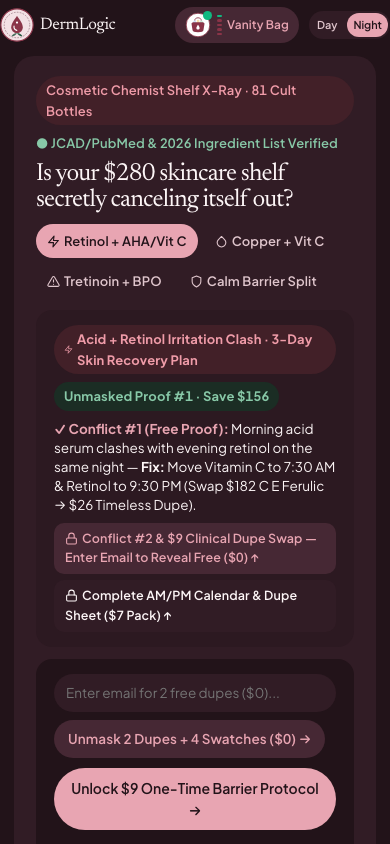
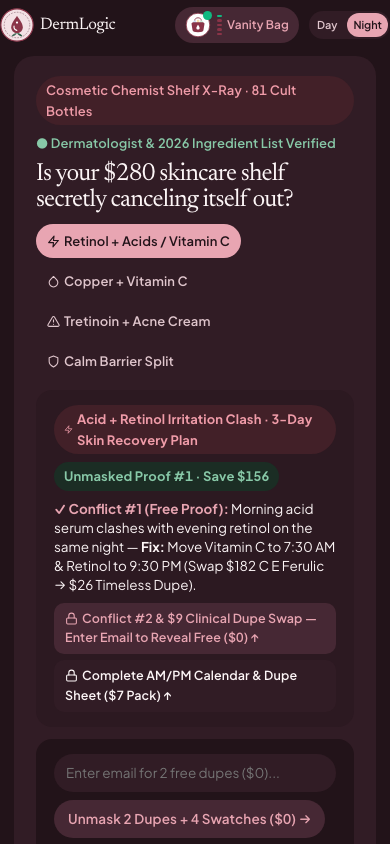
Phase 2.3: replace JCAD/PubMed, AHA/Vit C, and BPO with plain-English Dermatologist, Acids / Vitamin C, and Acne Cream

diff --git a/src/page-views.js b/src/page-views.js
@@ -226,13 +226,13 @@ function renderHomePage({ products, ingredients, presets, initialAnalysis, initi
           <div id="dl-screen1-group1" style="display:flex;flex-direction:column;gap:8px;">
             <div style="display:flex;align-items:center;justify-content:space-between;gap:8px;flex-wrap:wrap;">
               <span class="badge-clash mono" style="font-size:13px;padding:4px 10px;">Cosmetic Chemist Shelf X-Ray &middot; ${products.length} Cult Bottles</span>
-              <span class="mono" style="font-size:13px;color:var(--sage-safe);font-weight:600;">&#9679; JCAD/PubMed &amp; 2026 Ingredient List Verified</span>
+              <span class="mono" style="font-size:13px;color:var(--sage-safe);font-weight:600;">&#9679; Dermatologist &amp; 2026 Ingredient List Verified</span>
             </div>
             <h1 class="hero-h1" style="font-size:clamp(1.38rem,2.3vw,1.95rem);line-height:1.18;margin:0;max-width:none;">Is your $280 skincare shelf secretly canceling itself out?</h1>
             <div id="dl-spark-tester-bar" role="group" aria-label="1-Tap AM/PM Conflict Spark Tester" style="display:flex;flex-wrap:wrap;gap:6px;align-items:center;">
-              <button type="button" class="vanity-light-btn active mono" data-spark="retinol-aha" style="font-size:13px;padding:6px 11px;min-height:34px;border-radius:999px;cursor:pointer;" onclick="window.__dlSelectSparkConflict('retinol-aha','viral-tiktok-destroyer',this)"><svg width="13" height="13" viewBox="0 0 24 24" fill="none" stroke="currentColor" stroke-width="2" stroke-linecap="round" stroke-linejoin="round" style="display:inline-block;vertical-align:-2px;margin-right:4px;"><polygon points="13 2 3 14 12 14 11 22 21 10 12 10 13 2"/></svg>Retinol + AHA/Vit C</button>
-              <button type="button" class="vanity-light-btn mono" data-spark="copper-vitc" style="font-size:13px;padding:6px 11px;min-height:34px;border-radius:999px;cursor:pointer;" onclick="window.__dlSelectSparkConflict('copper-vitc','copper-vitc-oxidation',this)"><svg width="13" height="13" viewBox="0 0 24 24" fill="none" stroke="currentColor" stroke-width="2" stroke-linecap="round" stroke-linejoin="round" style="display:inline-block;vertical-align:-2px;margin-right:4px;"><path d="M12 2.69l5.66 5.66a8 8 0 1 1-11.31 0z"/></svg>Copper + Vit C</button>
-              <button type="button" class="vanity-light-btn mono" data-spark="tret-bpo" style="font-size:13px;padding:6px 11px;min-height:34px;border-radius:999px;cursor:pointer;" onclick="window.__dlSelectSparkConflict('tret-bpo','viral-tiktok-destroyer',this)"><svg width="13" height="13" viewBox="0 0 24 24" fill="none" stroke="currentColor" stroke-width="2" stroke-linecap="round" stroke-linejoin="round" style="display:inline-block;vertical-align:-2px;margin-right:4px;"><path d="M10.29 3.86L1.82 18a2 2 0 0 0 1.71 3h16.94a2 2 0 0 0 1.71-3L13.71 3.86a2 2 0 0 0-3.42 0z"/><line x1="12" y1="9" x2="12" y2="13"/><line x1="12" y1="17" x2="12.01" y2="17"/></svg>Tretinoin + BPO</button>
+              <button type="button" class="vanity-light-btn active mono" data-spark="retinol-aha" style="font-size:13px;padding:6px 11px;min-height:34px;border-radius:999px;cursor:pointer;" onclick="window.__dlSelectSparkConflict('retinol-aha','viral-tiktok-destroyer',this)"><svg width="13" height="13" viewBox="0 0 24 24" fill="none" stroke="currentColor" stroke-width="2" stroke-linecap="round" stroke-linejoin="round" style="display:inline-block;vertical-align:-2px;margin-right:4px;"><polygon points="13 2 3 14 12 14 11 22 21 10 12 10 13 2"/></svg>Retinol + Acids / Vitamin C</button>
+              <button type="button" class="vanity-light-btn mono" data-spark="copper-vitc" style="font-size:13px;padding:6px 11px;min-height:34px;border-radius:999px;cursor:pointer;" onclick="window.__dlSelectSparkConflict('copper-vitc','copper-vitc-oxidation',this)"><svg width="13" height="13" viewBox="0 0 24 24" fill="none" stroke="currentColor" stroke-width="2" stroke-linecap="round" stroke-linejoin="round" style="display:inline-block;vertical-align:-2px;margin-right:4px;"><path d="M12 2.69l5.66 5.66a8 8 0 1 1-11.31 0z"/></svg>Copper + Vitamin C</button>
+              <button type="button" class="vanity-light-btn mono" data-spark="tret-bpo" style="font-size:13px;padding:6px 11px;min-height:34px;border-radius:999px;cursor:pointer;" onclick="window.__dlSelectSparkConflict('tret-bpo','viral-tiktok-destroyer',this)"><svg width="13" height="13" viewBox="0 0 24 24" fill="none" stroke="currentColor" stroke-width="2" stroke-linecap="round" stroke-linejoin="round" style="display:inline-block;vertical-align:-2px;margin-right:4px;"><path d="M10.29 3.86L1.82 18a2 2 0 0 0 1.71 3h16.94a2 2 0 0 0 1.71-3L13.71 3.86a2 2 0 0 0-3.42 0z"/><line x1="12" y1="9" x2="12" y2="13"/><line x1="12" y1="17" x2="12.01" y2="17"/></svg>Tretinoin + Acne Cream</button>
               <button type="button" class="vanity-light-btn mono" data-spark="calm-barrier" style="font-size:13px;padding:6px 11px;min-height:34px;border-radius:999px;cursor:pointer;" onclick="window.__dlSelectSparkConflict('calm-barrier','glass-skin-recovery',this)"><svg width="13" height="13" viewBox="0 0 24 24" fill="none" stroke="currentColor" stroke-width="2" stroke-linecap="round" stroke-linejoin="round" style="display:inline-block;vertical-align:-2px;margin-right:4px;"><path d="M12 22s8-4 8-10V5l-8-3-8 3v7c0 6 8 10 8 10z"/></svg>Calm Barrier Split</button>
             </div>
           </div>

diff --git a/src/ui-templates.js b/src/ui-templates.js
@@ -954,9 +954,9 @@ const CLIENT_SCRIPT = `
   window.__dlSelectSparkConflict = function(key, presetId, btn) {
     const svgBolt = '<svg width="13" height="13" viewBox="0 0 24 24" fill="none" stroke="currentColor" stroke-width="2" stroke-linecap="round" stroke-linejoin="round" style="display:inline-block;vertical-align:-2px;margin-right:4px;"><polygon points="13 2 3 14 12 14 11 22 21 10 12 10 13 2"/></svg>';
     const map = {
-      'retinol-aha': { badge: svgBolt + 'Acid + Retinol Irritation Clash · 3-Day Skin Recovery Plan', badgeCls: 'badge-clash mono', pill: 'Unmasked Proof #1 · Save $156', proof: '<strong style="color:var(--rose-brand);">Retinol + AHA/Vit C Clash:</strong> Morning acid serum clashes with evening retinol on the same night &mdash; <strong>Fix:</strong> Move Vitamin C to 7:30 AM &amp; Retinol to 9:30 PM (Swap $182 C E Ferulic &rarr; $26 Timeless Dupe).' },
+      'retinol-aha': { badge: svgBolt + 'Acid + Retinol Irritation Clash · 3-Day Skin Recovery Plan', badgeCls: 'badge-clash mono', pill: 'Unmasked Proof #1 · Save $156', proof: '<strong style="color:var(--rose-brand);">Retinol + Acids / Vitamin C Clash:</strong> Morning acid serum clashes with evening retinol on the same night &mdash; <strong>Fix:</strong> Move Vitamin C to 7:30 AM &amp; Retinol to 9:30 PM (Swap $182 C E Ferulic &rarr; $26 Timeless Dupe).' },
       'copper-vitc': { badge: svgBolt + 'Acid + Peptide Irritation Clash · Copper Ion Oxidation', badgeCls: 'badge-clash mono', pill: 'Unmasked Proof #1 · $210 Saved', proof: '<strong style="color:var(--rose-brand);">Copper Peptides + Vitamin C Clash:</strong> Pure L-Ascorbic Acid oxidizes Copper Tripeptide-1 on contact &mdash; <strong>Fix:</strong> Apply Vitamin C at 7:30 AM &amp; Copper Peptides at 9:30 PM.' },
-      'tret-bpo': { badge: svgBolt + 'Retinoid + Peroxide Clash · 3-Day Skin Recovery Plan', badgeCls: 'badge-clash mono', pill: 'Unmasked Proof #1 · Zero Peeling', proof: '<strong style="color:var(--rose-brand);">Tretinoin + Benzoyl Peroxide Clash:</strong> Leave-on BPO neutralizes night Tretinoin &mdash; <strong>Fix:</strong> Use BPO as a 60s morning wash &amp; cushion Tretinoin over $32 Aestura 365 Cream.' },
+      'tret-bpo': { badge: svgBolt + 'Retinoid + Peroxide Clash · 3-Day Skin Recovery Plan', badgeCls: 'badge-clash mono', pill: 'Unmasked Proof #1 · Zero Peeling', proof: '<strong style="color:var(--rose-brand);">Tretinoin + Acne Cream Clash:</strong> Leave-on acne cream neutralizes night Tretinoin &mdash; <strong>Fix:</strong> Use acne wash in the morning &amp; cushion Tretinoin over $32 Aestura 365 Cream.' },
       'calm-barrier': { badge: svgBolt + 'Calm Moisture Barrier Split · 0 Active Clashes', badgeCls: 'badge-safe mono', pill: 'Unmasked Proof #1 · Glass-Skin Ready', proof: '<strong style="color:var(--sage-safe);">Calm Barrier Split Verified:</strong> Morning Vitamin C + Snail 96 + Joseon SPF 50 ($18) and Night Ceramide Cushion layer with zero pilling or stinging.' }
     };
     const cfg = map[key] || map['retinol-aha'], bEl = document.getElementById('dl-ph-clash-badge'), pEl = document.getElementById('dl-spark-savings-pill'), prEl = document.getElementById('dl-spark-unmasked-proof');
